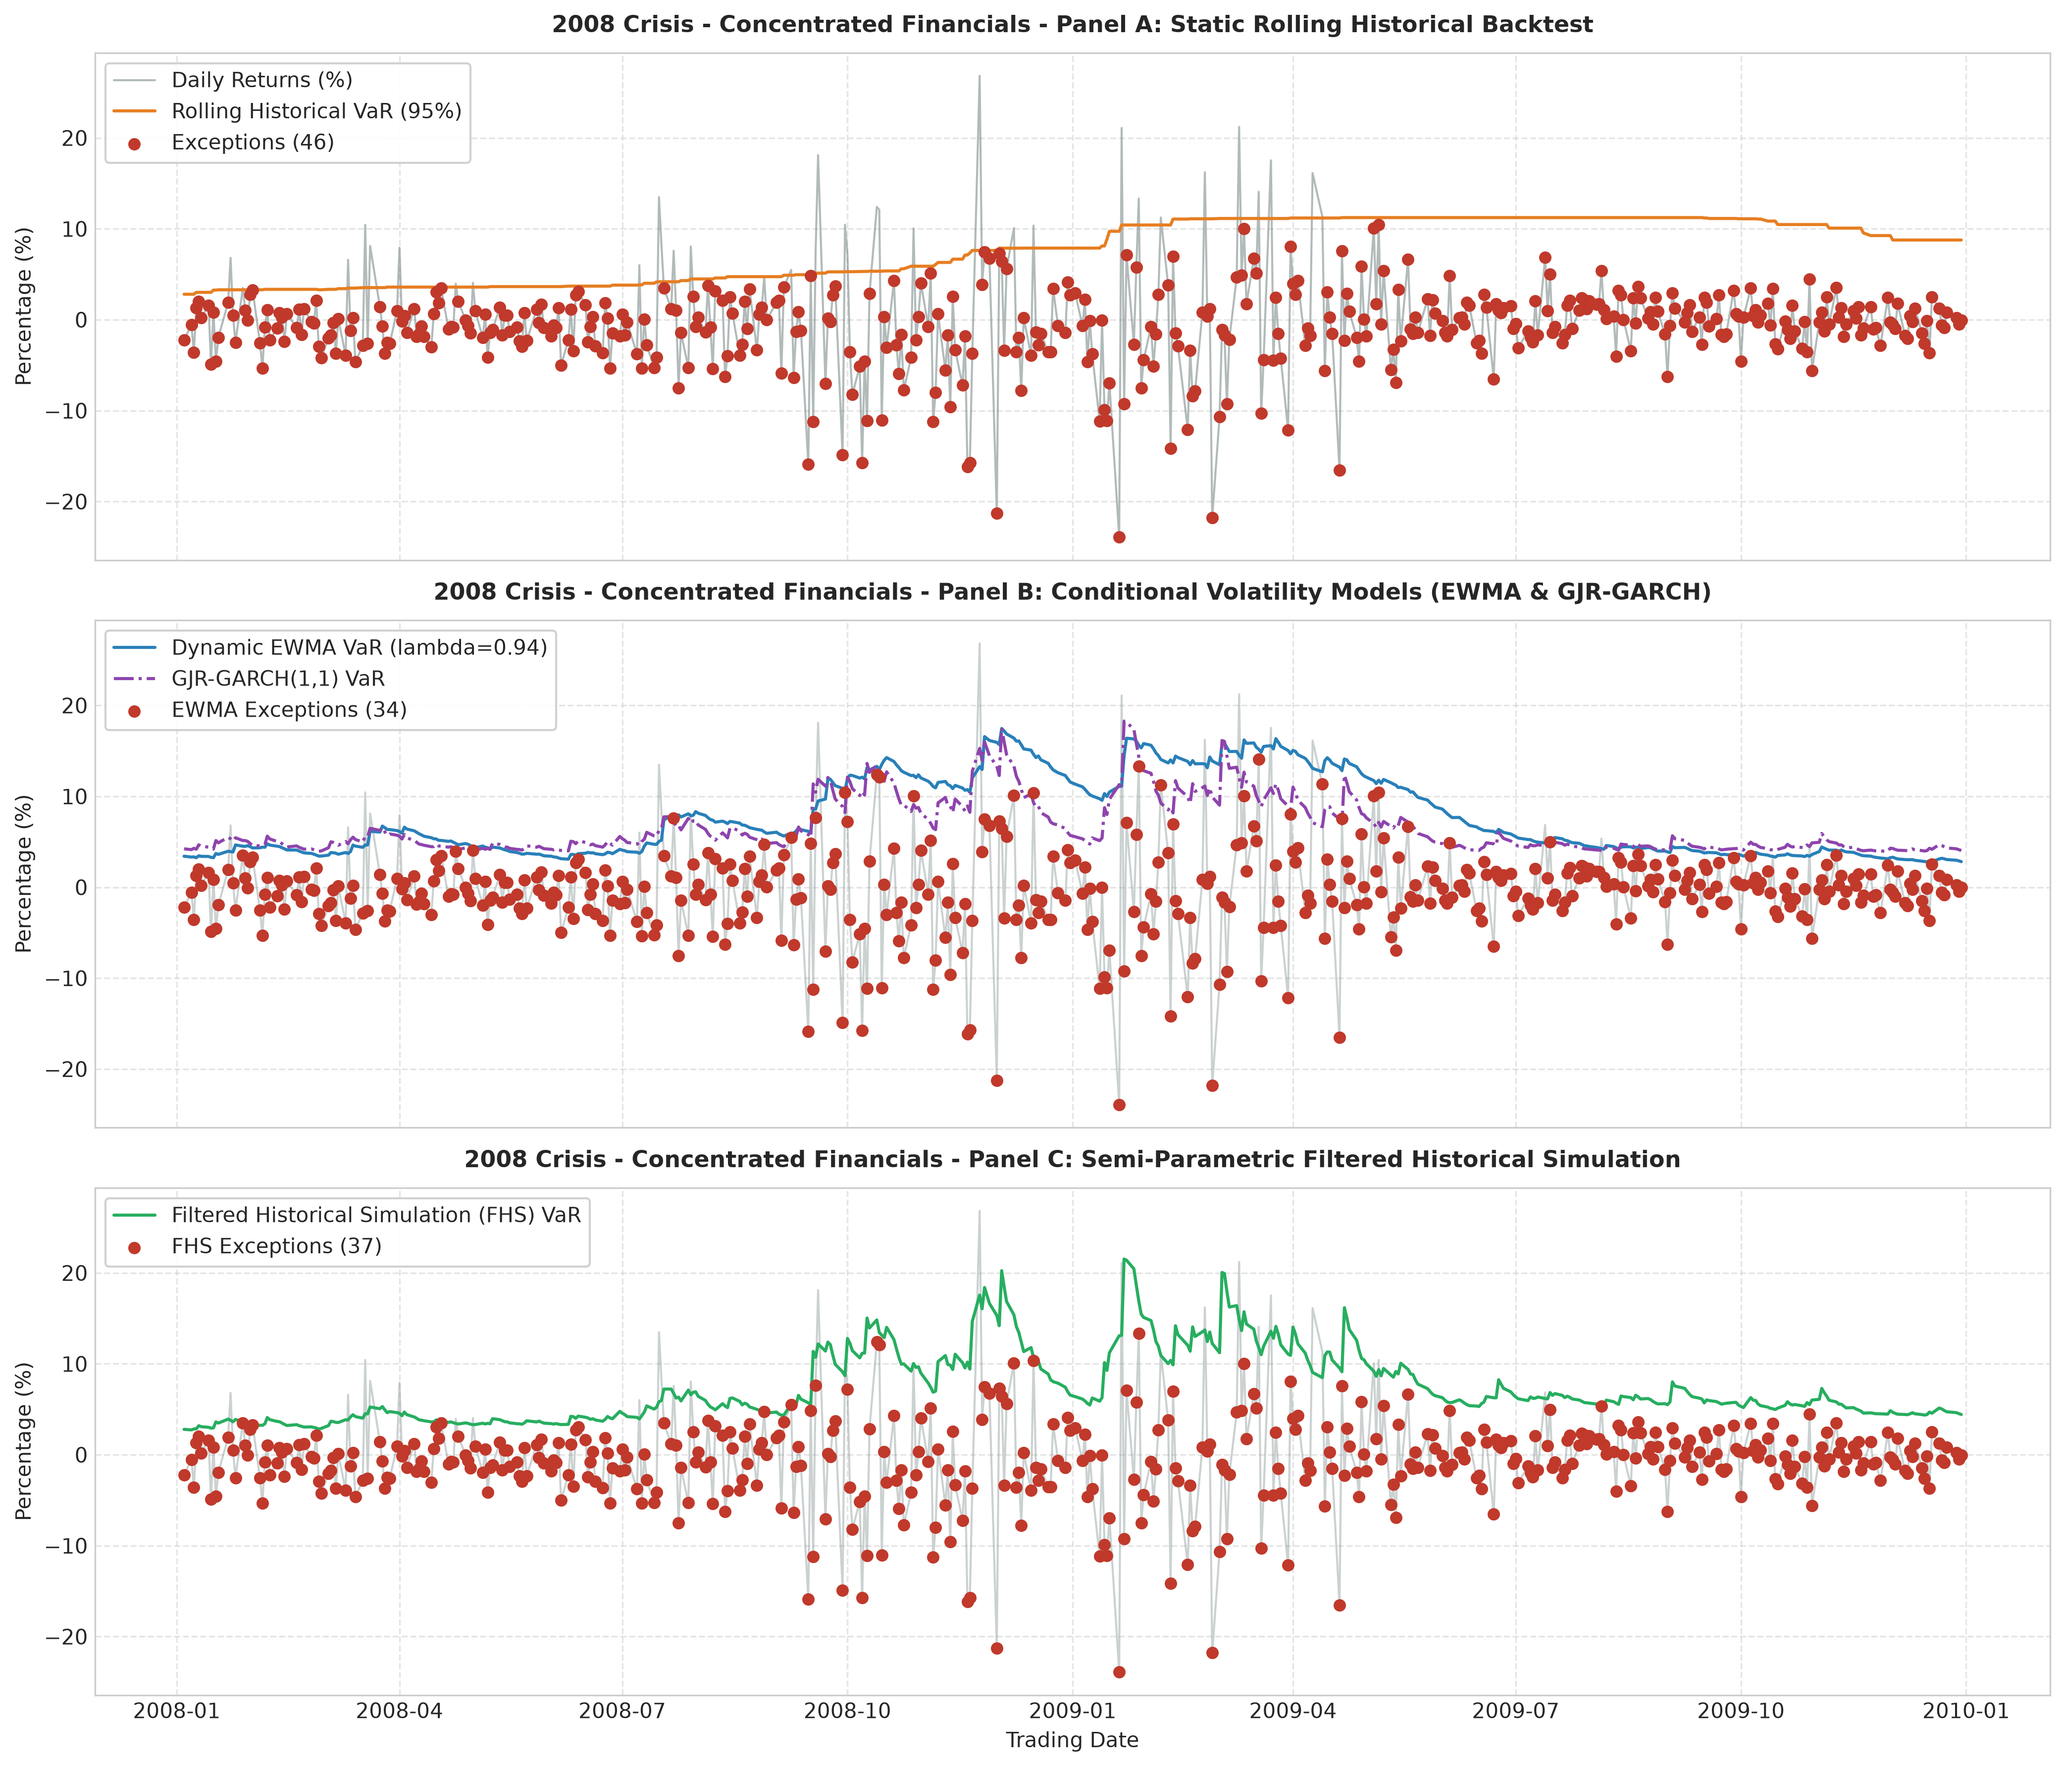
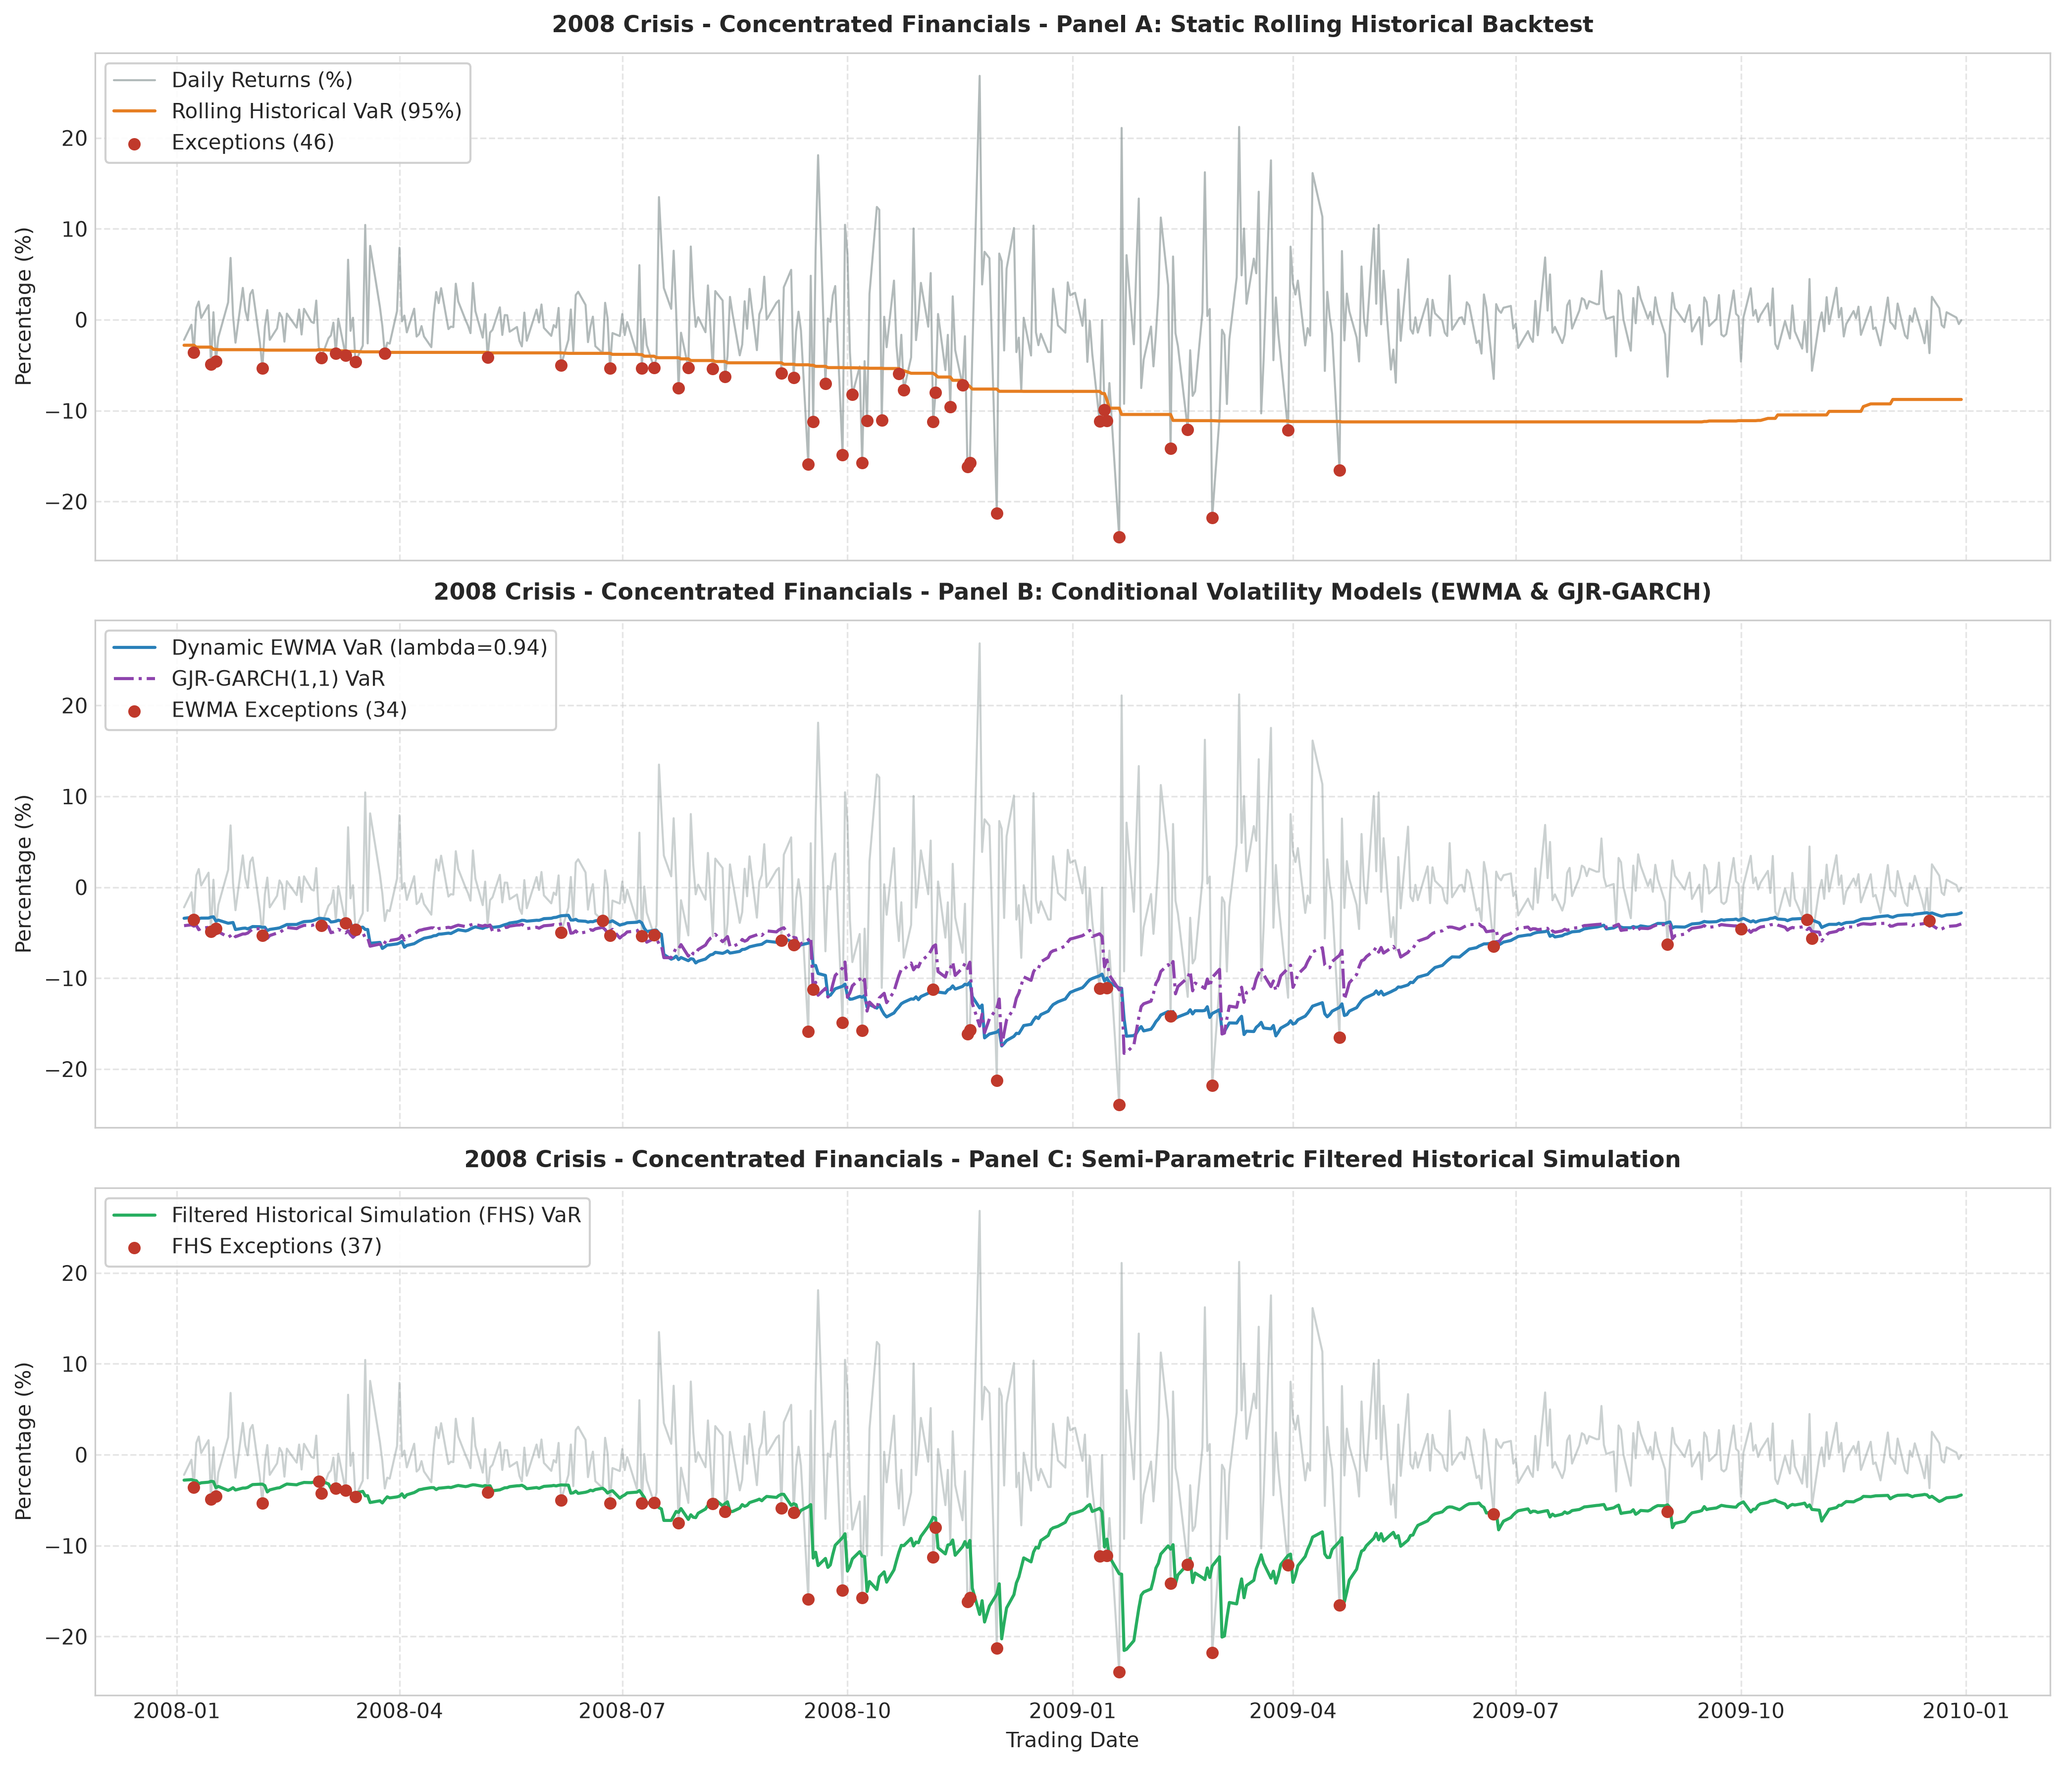
Fix sign errors in VaR calculations and update week10 descriptive summary CSV for accuracy

diff --git a/src/stress_engine/visualization.py b/src/stress_engine/visualization.py
@@ -73,12 +73,12 @@ def plot_var_backtest_diagnostics(
     )
     ax1.plot(
         out_of_sample_dates,
-        -hist_var * 100,
+        hist_var * 100,
         color="#e67e22",
         lw=1.5,
         label="Rolling Historical VaR (95%)",
     )
-    breach_mask_hist = returns < -hist_var
+    breach_mask_hist = returns < hist_var
     if np.any(breach_mask_hist):
         ax1.scatter(
             out_of_sample_dates[breach_mask_hist],
@@ -109,20 +109,20 @@ def plot_var_backtest_diagnostics(
     )
     ax2.plot(
         out_of_sample_dates,
-        -ewma_var * 100,
+        ewma_var * 100,
         color="#2980b9",
         lw=1.5,
         label="Dynamic EWMA VaR (lambda=0.94)",
     )
     ax2.plot(
         out_of_sample_dates,
-        -garch_var * 100,
+        garch_var * 100,
         color="#8e44ad",
         lw=1.5,
         linestyle="-.",
         label="GJR-GARCH(1,1) VaR",
     )
-    breach_mask_ewma = returns < -ewma_var
+    breach_mask_ewma = returns < ewma_var
     if np.any(breach_mask_ewma):
         ax2.scatter(
             out_of_sample_dates[breach_mask_ewma],
@@ -153,12 +153,12 @@ def plot_var_backtest_diagnostics(
     )
     ax3.plot(
         out_of_sample_dates,
-        -fhs_var * 100,
+        fhs_var * 100,
         color="#27ae60",
         lw=1.5,
         label="Filtered Historical Simulation (FHS) VaR",
     )
-    breach_mask_fhs = returns < -fhs_var
+    breach_mask_fhs = returns < fhs_var
     if np.any(breach_mask_fhs):
         ax3.scatter(
             out_of_sample_dates[breach_mask_fhs],
